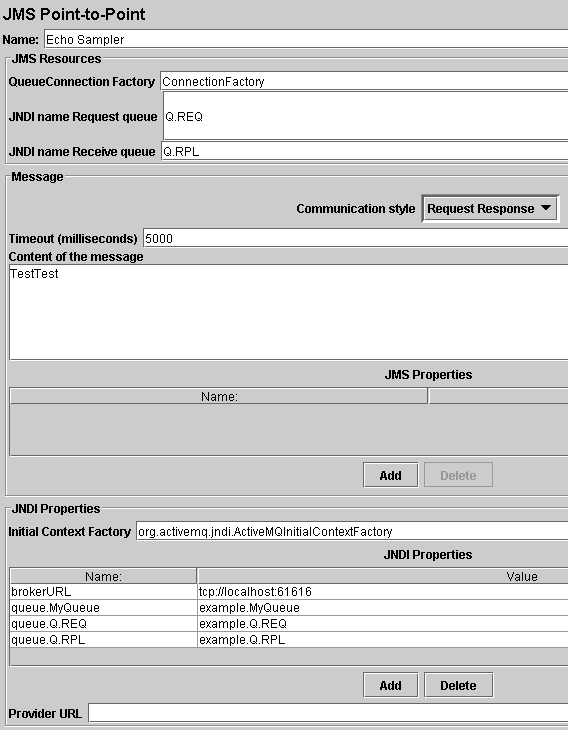
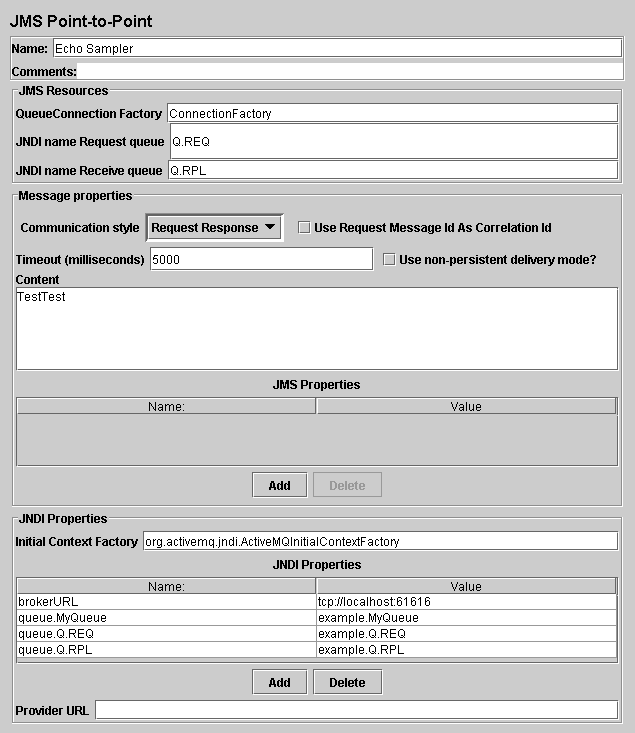
Bug 45571 - JMS Sampler correlation enhancement
git-svn-id: https://svn.apache.org/repos/asf/jakarta/jmeter/trunk@701218 13f79535-47bb-0310-9956-ffa450edef68

diff --git a/src/protocol/jms/org/apache/jmeter/protocol/jms/control/gui/JMSConfigGui.java b/src/protocol/jms/org/apache/jmeter/protocol/jms/control/gui/JMSConfigGui.java
@@ -70,6 +70,8 @@ public class JMSConfigGui extends AbstractSamplerGui {
     private ArgumentsPanel jndiPropertiesPanel;
 
     private JCheckBox useNonPersistentDelivery;
+    
+    private JCheckBox useReqMsgIdAsCorrelId;
 
     public JMSConfigGui() {
         init();
@@ -80,14 +82,14 @@ public class JMSConfigGui extends AbstractSamplerGui {
      */
     public void clearGui() {// renamed from clear
         super.clearGui();
-        queueuConnectionFactory.setText("");
-        sendQueue.setText("");
-        receiveQueue.setText("");
+        queueuConnectionFactory.setText(""); // $NON-NLS-1$
+        sendQueue.setText(""); // $NON-NLS-1$
+        receiveQueue.setText(""); // $NON-NLS-1$
         ((JComboBox) oneWay.getComponentList().get(1)).setSelectedItem(JMeterUtils.getResString("jms_request")); //$NON-NLS-1$
-        timeout.setText("");
-        soapXml.setText("");
-        initialContextFactory.setText("");
-        providerUrl.setText("");
+        timeout.setText("");  // $NON-NLS-1$
+        soapXml.setText(""); // $NON-NLS-1$
+        initialContextFactory.setText(""); // $NON-NLS-1$
+        providerUrl.setText(""); // $NON-NLS-1$
         jmsPropertiesPanel.clear();
         jndiPropertiesPanel.clear();
     }
@@ -110,6 +112,7 @@ public class JMSConfigGui extends AbstractSamplerGui {
         element.setIsOneway(isOneway);
 
         element.setNonPersistent(useNonPersistentDelivery.isSelected());
+        element.setUseReqMsgIdAsCorrelId(useReqMsgIdAsCorrelId.isSelected());
         element.setTimeout(timeout.getText());
         element.setContent(soapXml.getText());
 
@@ -179,7 +182,8 @@ public class JMSConfigGui extends AbstractSamplerGui {
         box.setSelectedItem(selected);
 
         useNonPersistentDelivery.setSelected(sampler.isNonPersistent());
-
+        useReqMsgIdAsCorrelId.setSelected(sampler.isUseReqMsgIdAsCorrelId());
+        
         timeout.setText(String.valueOf(sampler.getTimeout()));
         soapXml.setText(sampler.getContent());
         initialContextFactory.setText(sampler.getInitialContextFactory());
@@ -227,9 +231,12 @@ public class JMSConfigGui extends AbstractSamplerGui {
         messagePanel.setBorder(BorderFactory.createTitledBorder(BorderFactory.createEtchedBorder(),
                 JMeterUtils.getResString("jms_message_title"))); //$NON-NLS-1$
 
+        useReqMsgIdAsCorrelId = new JCheckBox(JMeterUtils.getResString("jms_use_req_msgid_as_correlid"),false); //$NON-NLS-1$
+        
         JPanel messageNorthPanel = new JPanel(new BorderLayout());
-        JPanel onewayPanel = new JPanel(new BorderLayout());
+        JPanel onewayPanel = new HorizontalPanel();
         onewayPanel.add(oneWay);
+        onewayPanel.add(useReqMsgIdAsCorrelId);
         messageNorthPanel.add(onewayPanel, BorderLayout.NORTH);
 
         useNonPersistentDelivery = new JCheckBox(JMeterUtils.getResString("jms_use_non_persistent_delivery"),false); //$NON-NLS-1$

diff --git a/src/protocol/jms/org/apache/jmeter/protocol/jms/sampler/JMSSampler.java b/src/protocol/jms/org/apache/jmeter/protocol/jms/sampler/JMSSampler.java
@@ -57,6 +57,8 @@ public class JMSSampler extends AbstractSampler implements ThreadListener {
 
     private static final Logger LOGGER = LoggingManager.getLoggerForClass();
 
+    private static final long serialVersionUID = 233L;
+
     private static final int DEFAULT_TIMEOUT = 2000;
 
     //++ These are JMX names, and must not be changed
@@ -81,6 +83,8 @@ public class JMSSampler extends AbstractSampler implements ThreadListener {
     private final static String QUEUE_CONNECTION_FACTORY_JNDI = "JMSSampler.queueconnectionfactory"; // $NON-NLS-1$
 
     private static final String IS_NON_PERSISTENT = "JMSSampler.isNonPersistent"; // $NON-NLS-1$
+
+    private static final String USE_REQ_MSGID_AS_CORRELID = "JMSSampler.useReqMsgIdAsCorrelId"; // $NON-NLS-1$
 
     //--
 
@@ -179,7 +183,13 @@ public class JMSSampler extends AbstractSampler implements ThreadListener {
             if (LOGGER.isDebugEnabled()) {
                 LOGGER.debug("Adding property [" + name + "=" + value + "]");
             }
-            msg.setStringProperty(name, value);
+            
+            // WebsphereMQ does not allow corr. id. to be set using setStringProperty()
+            if("JMSCorrelationID".equalsIgnoreCase(name)) { // $NON-NLS-1$
+            	msg.setJMSCorrelationID(value);
+            } else {
+            	msg.setStringProperty(name, value);
+            }
         }
     }
 
@@ -239,6 +249,10 @@ public class JMSSampler extends AbstractSampler implements ThreadListener {
         return getPropertyAsBoolean(IS_NON_PERSISTENT);
     }
 
+    public boolean isUseReqMsgIdAsCorrelId() {
+        return getPropertyAsBoolean(USE_REQ_MSGID_AS_CORRELID);
+    }
+
     public String getInitialContextFactory() {
         return getPropertyAsString(JMSSampler.JNDI_INITIAL_CONTEXT_FACTORY);
     }
@@ -253,6 +267,10 @@ public class JMSSampler extends AbstractSampler implements ThreadListener {
 
     public void setNonPersistent(boolean value) {
         setProperty(new BooleanProperty(IS_NON_PERSISTENT, value));
+    }
+
+    public void setUseReqMsgIdAsCorrelId(boolean value) {
+        setProperty(new BooleanProperty(USE_REQ_MSGID_AS_CORRELID, value));
     }
 
     public String toString() {
@@ -315,7 +333,7 @@ public class JMSSampler extends AbstractSampler implements ThreadListener {
                     if (isNonPersistent()) {
                         producer.setDeliveryMode(DeliveryMode.NON_PERSISTENT);
                     }
-                    executor = new FixedQueueExecutor(producer, getTimeout());
+                    executor = new FixedQueueExecutor(producer, getTimeout(), isUseReqMsgIdAsCorrelId());
                 }
             }
             if (LOGGER.isDebugEnabled()) {

diff --git a/src/protocol/jms/org/apache/jmeter/protocol/jms/sampler/FixedQueueExecutor.java b/src/protocol/jms/org/apache/jmeter/protocol/jms/sampler/FixedQueueExecutor.java
@@ -42,6 +42,8 @@ public class FixedQueueExecutor implements QueueExecutor {
 
     /** Timeout used for waiting on message. */
     private final int timeout;
+    
+    private final boolean useReqMsgIdAsCorrelId;
 
     /**
      * Constructor.
@@ -54,6 +56,23 @@ public class FixedQueueExecutor implements QueueExecutor {
     public FixedQueueExecutor(QueueSender producer, int timeout) {
         this.producer = producer;
         this.timeout = timeout;
+        this.useReqMsgIdAsCorrelId = false;
+    }
+
+    /**
+     * Constructor.
+     *
+     * @param producer
+     *            the queue to send the message on
+     * @param timeout
+     *            timeout to use for the return message
+     * @param useReqMsgIdAsCorrelId
+     *            whether to use the request message id as the correlation id
+     */
+    public FixedQueueExecutor(QueueSender producer, int timeout, boolean useReqMsgIdAsCorrelId) {
+        this.producer = producer;
+        this.timeout = timeout;
+        this.useReqMsgIdAsCorrelId = useReqMsgIdAsCorrelId;
     }
 
     /*
@@ -63,11 +82,16 @@ public class FixedQueueExecutor implements QueueExecutor {
      */
     public Message sendAndReceive(Message request) throws JMSException {
         String id = request.getJMSCorrelationID();
-        if(id == null){
+        if(id == null && !useReqMsgIdAsCorrelId){
             log.error("Correlation id is null. Set the JMSCorrelationID header");
             return null;
         }
         producer.send(request);
+        
+        if(useReqMsgIdAsCorrelId) {
+        	id = request.getJMSMessageID();
+        }
+
         MessageAdmin.getAdmin().putRequest(id, request);
         try {
             if (log.isDebugEnabled()) {
